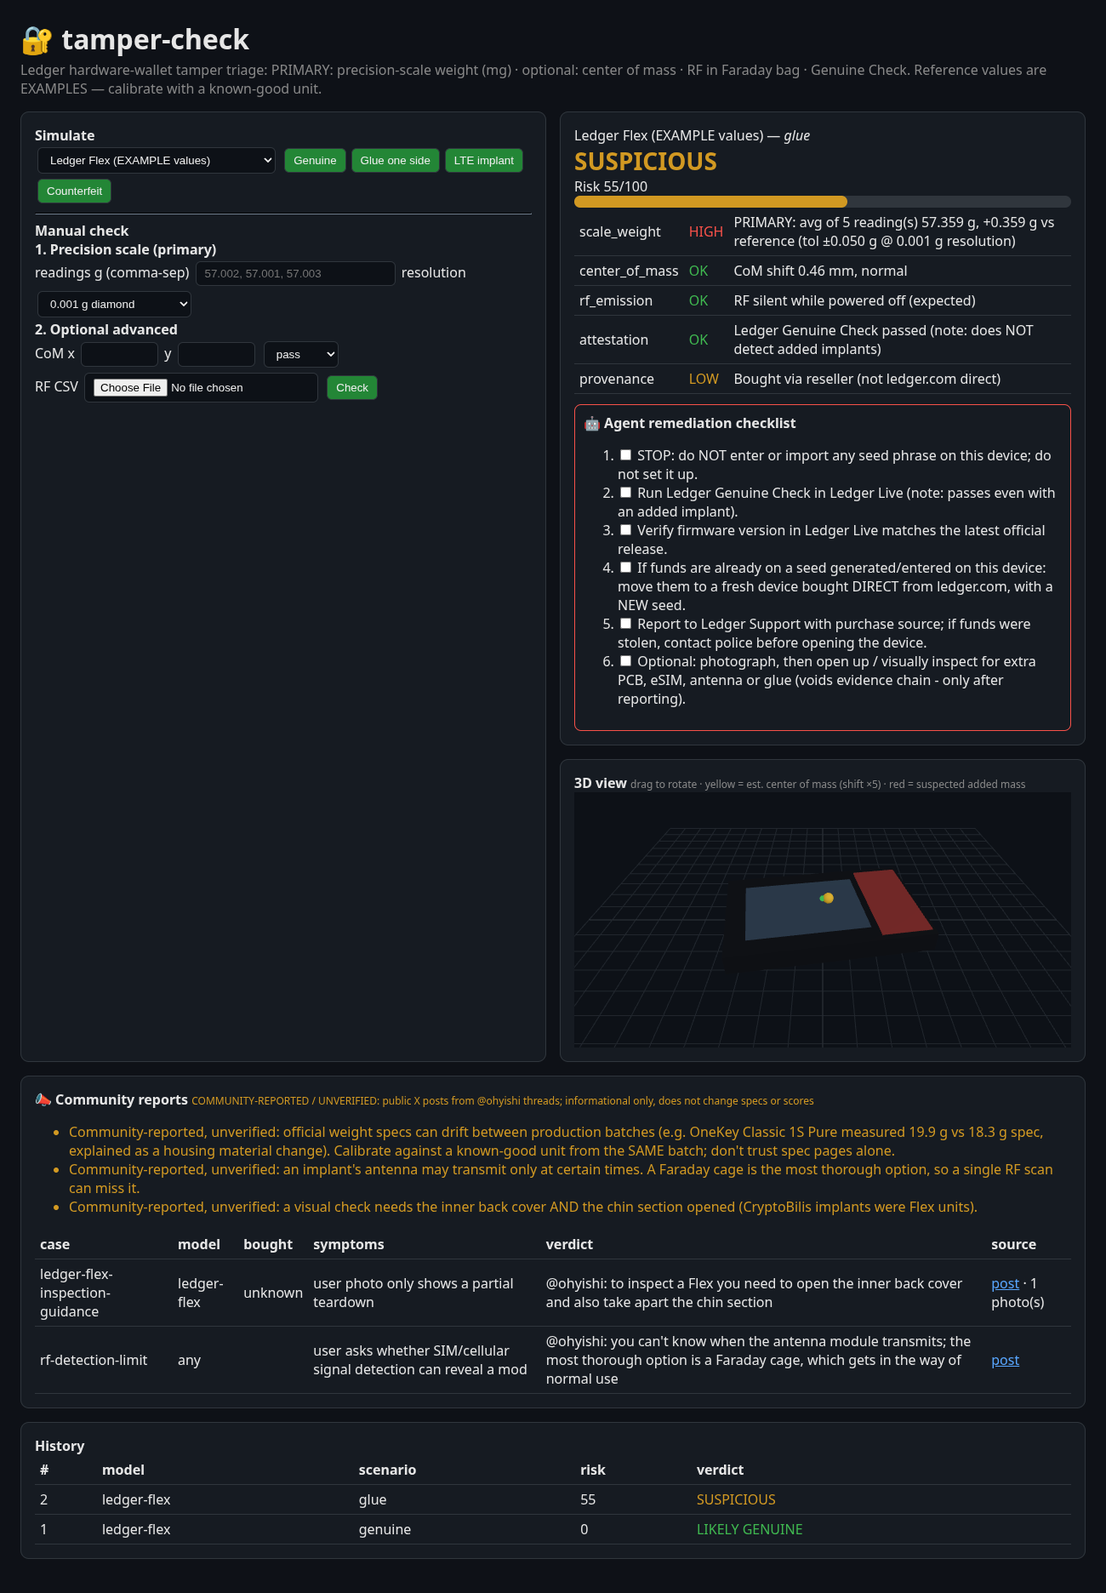
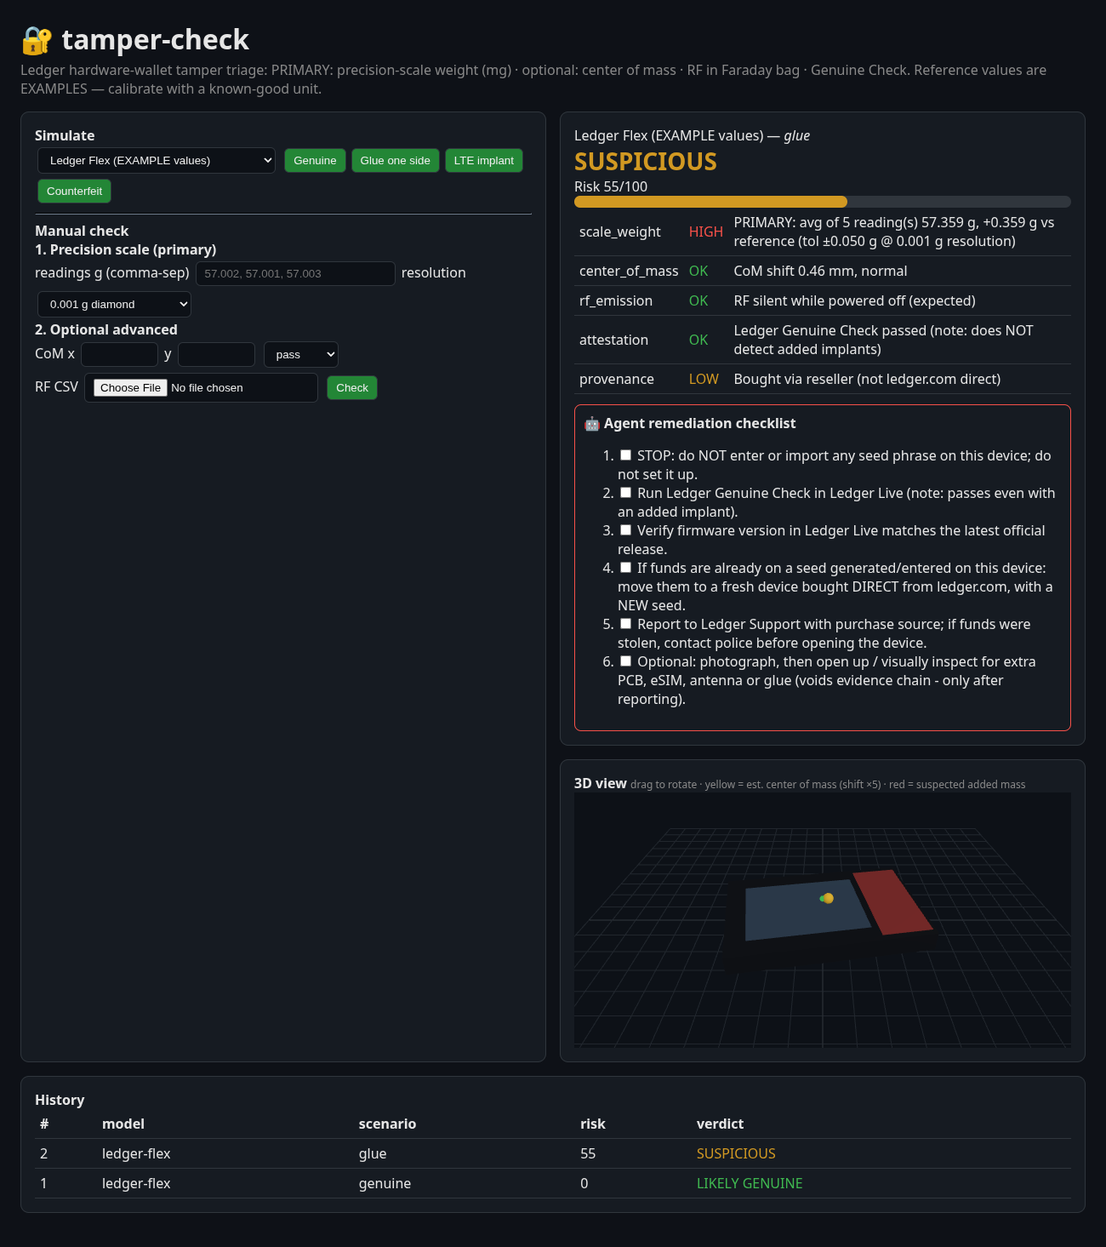
Clean up: focused README, remove community data/panel/API

diff --git a/static/index.html b/static/index.html
@@ -10,16 +10,12 @@ select,input,button{background:#0d1117;color:#eee;border:1px solid #30363d;borde
 <button onclick="sim('genuine')">Genuine</button><button onclick="sim('glue')">Glue one side</button><button onclick="sim('implant')">LTE implant</button><button onclick="sim('counterfeit')">Counterfeit</button>
 <hr style="border-color:#30363d"><b>Manual check</b><br><b>1. Precision scale (primary)</b><br>readings g (comma-sep) <input id=w size=22 placeholder="57.002, 57.001, 57.003"> resolution <select id=resol><option value=0.001>0.001 g diamond</option><option value=0.01>0.01 g</option><option value=1>1 g kitchen (demo only)</option></select><br><b>2. Optional advanced</b><br>CoM x <input id=cx size=4> y <input id=cy size=4>
 <select id=att><option>pass</option><option>fail</option><option>not_run</option></select><br>RF CSV <input type=file id=rf> <button onclick=manual()>Check</button></div>
-<div><div class=card id=res><i>Run a check…</i></div><div class=card><b>3D view</b> <span style="color:#888;font-size:12px">drag to rotate · yellow = est. center of mass (shift ×5) · red = suspected added mass</span><div id=v3d style="height:300px"></div></div></div></div><div class=card id=comm><b>📣 Community reports</b> <span style="color:#d29922;font-size:12px">COMMUNITY-REPORTED / UNVERIFIED: public X posts from @ohyishi threads; informational only, does not change specs or scores</span><div id=commnotes></div><table id=commtbl></table></div>
-<div class=card><b>History</b><table id=hist></table></div>
+<div><div class=card id=res><i>Run a check…</i></div><div class=card><b>3D view</b> <span style="color:#888;font-size:12px">drag to rotate · yellow = est. center of mass (shift ×5) · red = suspected added mass</span><div id=v3d style="height:300px"></div></div></div></div><div class=card><b>History</b><table id=hist></table></div>
 <script>
-let seed=0;fetch('/api/models').then(r=>r.json()).then(m=>{for(const k in m)model.innerHTML+=`<option value=${k}>${m[k].name}</option>`;model.value='ledger-flex';comm();model.onchange=comm});
+let seed=0;fetch('/api/models').then(r=>r.json()).then(m=>{for(const k in m)model.innerHTML+=`<option value=${k}>${m[k].name}</option>`;model.value='ledger-flex'});
 function show(r){window.draw3d&&window.draw3d(r);const c=r.risk>=60?'critical':r.risk>=25?'medium':'ok';
 res.innerHTML=`<div>${r.model_name} — <i>${r.label}</i></div><div class="v ${c}">${r.verdict}</div><div>Risk ${r.risk}/100</div><div class=bar><div class="fill" style="width:${r.risk}%;background:${c=='ok'?'#3fb950':c=='medium'?'#d29922':'#f85149'}"></div></div>
 <table>${r.warnings.map(w=>`<tr><td>${w.check}</td><td class=${w.severity}>${w.severity.toUpperCase()}</td><td>${w.message}</td></tr>`).join('')}</table>${r.remediation.length?`<div style="margin-top:12px;padding:10px;border:1px solid #f85149;border-radius:8px"><b>🤖 Agent remediation checklist</b><ol>${r.remediation.map(x=>`<li><label><input type=checkbox> ${x}</label></li>`).join('')}</ol></div>`:''}`;hist_()}
-function esc(t){return String(t??'').replace(/[&<>"]/g,c=>({'&':'&amp;','<':'&lt;','>':'&gt;','"':'&quot;'}[c]))}
-function comm(){fetch('/api/community?model='+model.value).then(r=>r.json()).then(d=>{commnotes.innerHTML='<ul>'+d.notes.notes.map(n=>`<li style="color:#d29922">${esc(n)}</li>`).join('')+'</ul>';
-commtbl.innerHTML='<tr><th>case</th><th>model</th><th>bought</th><th>symptoms</th><th>verdict</th><th>source</th></tr>'+d.cases.map(c=>`<tr class=crow><td>${esc(c.id)}</td><td>${esc(c.device_model)}</td><td>${esc(c.bought_from)}</td><td>${esc((c.symptoms||[]).join('; '))}${c.weight_observed_g?` <b>(${c.weight_observed_g} g vs spec ${c.weight_spec_g} g)</b>`:''}</td><td>${esc(c.expert_verdict)}</td><td><a style="color:#58a6ff" href="${esc(c.source_post)}" target=_blank>post</a>${c.media&&c.media.length?` · ${c.media.length} photo(s)`:''}</td></tr>`).join('')})}
 function sim(k){fetch(`/api/simulate/${model.value}/${k}?seed=${seed++}`,{method:'POST'}).then(r=>r.json()).then(show)}
 async function manual(){const b={model:model.value,attestation:att.value};if(w.value)b.scale_readings_g=w.value.split(',').map(Number);b.scale_resolution_g=+resol.value;if(cx.value||cy.value)b.com_mm=[+cx.value||0,+cy.value||0];if(rf.files[0])b.rf_csv=await rf.files[0].text();
 fetch('/api/check',{method:'POST',headers:{'content-type':'application/json'},body:JSON.stringify(b)}).then(r=>r.json()).then(show)}

diff --git a/tamper_check/app.py b/tamper_check/app.py
@@ -6,18 +6,14 @@ from typing import Optional
 from .reference import REFERENCE
 from .engine import score
 from .simulator import scenario
-from .community import load_cases, notes_for
-from fastapi.staticfiles import StaticFiles
 app=FastAPI(title="tamper-check"); HISTORY=[]
-_m=Path(__file__).parent.parent/'data'/'x_ohyishi'/'media'
-if _m.exists(): app.mount('/media',StaticFiles(directory=_m),name='media')
 class Measurement(BaseModel):
     model:str; weight_g:Optional[float]=None; scale_readings_g:Optional[list[float]]=None; scale_resolution_g:Optional[float]=None; com_mm:Optional[list[float]]=None
     imu_samples:Optional[dict]=None; rf_csv:Optional[str]=None; attestation:Optional[str]=None
     source:Optional[str]=None; seal_broken:bool=False; label:Optional[str]=None
 def run(m):
     if m["model"] not in REFERENCE: raise HTTPException(404,"unknown model")
-    r=score(m); r["community"]=notes_for(m["model"]); r["label"]=m.get("label") or "manual"; r["id"]=len(HISTORY)+1; HISTORY.append(r); return r
+    r=score(m); r["label"]=m.get("label") or "manual"; r["id"]=len(HISTORY)+1; HISTORY.append(r); return r
 @app.get("/api/models")
 def models(): return REFERENCE
 @app.post("/api/check")
@@ -31,10 +27,3 @@ def sim(model:str,kind:str,seed:int=0):
 def hist(): return HISTORY[::-1]
 @app.get("/")
 def index(): return FileResponse(Path(__file__).parent.parent/"static"/"index.html")
-@app.get("/api/community")
-def community(model:Optional[str]=None, category:Optional[str]=None):
-    cs=load_cases()
-    if model: cs=[c for c in cs if model in str(c.get("device_model")) or c.get("device_model")=="any"]
-    if category: cs=[c for c in cs if c.get("category")==category]
-    return {"label":"COMMUNITY-REPORTED / UNVERIFIED (public X posts, @ohyishi threads, collected 2026-10-14)","count":len(cs),"cases":cs,
-            "notes":notes_for(model) if model else None}

diff --git a/tests/test_all.py b/tests/test_all.py
@@ -47,19 +47,3 @@ def test_api():
     assert c.post("/api/simulate/ledger-flex/xx").status_code==400
     assert len(c.get("/api/history").json())>=2 and c.get("/").status_code==200
 
-from tamper_check.community import load_cases, notes_for
-def test_cases_dataset_valid():
-    cs=load_cases(); assert len(cs)>=5
-    for c in cs:
-        assert c["verified"] is False and "UNVERIFIED" in c["source"] and c["source_post"].startswith("https://x.com/")
-        for m in c.get("media",[]): assert (__import__("pathlib").Path(m)).exists(), m
-def test_community_notes_do_not_change_specs_or_score():
-    before=dict(REFERENCE["ledger-nano-s-plus"]); n=notes_for("ledger-nano-s-plus")
-    assert REFERENCE["ledger-nano-s-plus"]==before and "UNVERIFIED" in n["label"] and any("ST33K1M5" in x for x in n["notes"])
-    assert any(w["observed_g"]==19.9 for w in n["observed_weights"])
-    s=scenario("ledger-nano-s-plus","genuine",0); assert score(s)["risk"]==0
-def test_api_community():
-    c=TestClient(app); d=c.get("/api/community").json(); assert d["count"]>=5 and "UNVERIFIED" in d["label"]
-    f=c.get("/api/community?model=ledger-flex").json(); assert all("ledger-flex" in x["device_model"] or x["device_model"]=="any" for x in f["cases"]) and f["notes"]["notes"]
-    assert c.get("/api/community?category=spec_drift").json()["count"]==2
-    r=c.post("/api/simulate/ledger-flex/genuine").json(); assert "UNVERIFIED" in r["community"]["label"]

diff --git a/tests/test_e2e.py b/tests/test_e2e.py
@@ -36,6 +36,6 @@ def test_dashboard_e2e(url):
         nonbg=pg.evaluate("""()=>{const c=document.querySelector('#v3d canvas');const t=document.createElement('canvas');t.width=c.width;t.height=c.height;const x=t.getContext('2d');x.drawImage(c,0,0);const d=x.getImageData(0,0,t.width,t.height).data;let n=0;for(let i=0;i<d.length;i+=4)if(Math.abs(d[i]-13)+Math.abs(d[i+1]-17)+Math.abs(d[i+2]-23)>30)n++;return n}""")
         assert nonbg>500, nonbg
         assert pg.locator("#hist tr").count()==6
-        assert pg.locator("#commtbl tr.crow").count()>=1 and "UNVERIFIED" in pg.inner_text("#comm")
+        assert pg.locator("#comm").count()==0
         b.close()
     assert not errors, errors

diff --git a/scripts_screenshot.py b/scripts_screenshot.py
@@ -8,5 +8,4 @@ with sync_playwright() as p:
     pg.screenshot(path="screenshots/kitchen_scale_demo_only.png",full_page=True)
     pg.fill("#w","57.312, 57.310, 57.313"); pg.select_option("#resol","0.001"); pg.click('button:has-text("Check")'); pg.wait_for_timeout(700)
     pg.screenshot(path="screenshots/manual_diamond_scale_flagged.png",full_page=True)
-    pg.locator("#comm").screenshot(path="screenshots/community_reports.png")
     b.close()

diff --git a/README.md b/README.md
@@ -1,80 +1,69 @@
 # tamper-check
 
-Software-first triage for **tampered Ledger hardware wallets** (Nano S Plus, Nano X, Stax, Flex). Built at Paradigm Frontiers 2026 hackathon (Aileen Choo + Aaron Li).
+Software-first tamper triage for Ledger hardware wallets (Nano S Plus, Nano X, Stax, Flex).
 
-**Primary check: precision-scale weight.** Following Ryan Lackey (@octal)'s suggestion: a ~$100 diamond scale with ~2 mg repeatability (e.g. US Solid DBS46-1, 0.001 g) can catch added implants/glue. Enter ≥3 readings (re-zero between); they are averaged, and tolerance = max(model tol, 2×resolution, 2×spread). A 1 g kitchen scale is flagged **DEMO-ONLY** — it cannot catch mg-level implants. When flagged, the dashboard shows an **agent remediation checklist** (don't enter seed → Genuine Check → verify firmware → move funds to a fresh device bought direct from Ledger with a new seed → report → optional open-up inspection).
+## Problem
 
-Optional advanced checks: **center-of-mass shift** (phone IMU tilt over a pivot) · **RF/cellular emission** while OFF inside a Faraday bag (Flipper/SDR CSV) · **Ledger Genuine Check** result · provenance. Explainable rule-based risk score 0–100 → LIKELY GENUINE / SUSPICIOUS / TAMPERED.
+In October 2026, Ledger confirmed that devices sold through the Southeast Asian reseller CryptoBilis contained an unauthorized hardware implant. According to press reports, the implant reads the 24-word recovery phrase during setup and sends it out over a cellular (eSIM) link. Funds were drained from hundreds of wallets. On Oct 13 Ledger asked resellers in Indonesia, Singapore, Thailand, the Philippines, Vietnam, Malaysia and Hong Kong to pull devices from shelves while it investigates. The secure element is not broken, so **Ledger Genuine Check still passes** on a tampered unit.
 
-> ⚠ Reference weights/dims in `tamper_check/reference.py` are **EXAMPLE placeholders, not official Ledger specs**. Calibrate by measuring a unit bought directly from ledger.com.
+- CoinDesk, Oct 12 2026: https://www.coindesk.com/tech/2026/10/12/ledger-says-unauthorized-implant-found-in-at-least-one-device-sold-by-cryptobilis
+- Cointelegraph, Oct 13 2026: https://cointelegraph.com/news/ledger-asks-resellers-to-halt-sales-in-southeast-asia-and-hong-kong
+- Ledger Genuine Check: https://www.ledger.com/blog/genuine-check
 
-## Run
+## Solution
+
+tamper-check catches what attestation misses: **physical changes to the device**. Checks are scored with transparent rules into a 0–100 risk score and a verdict of **LIKELY GENUINE**, **SUSPICIOUS** or **TAMPERED – DO NOT USE**.
+
+1. **Precision scale weight (primary).** Enter ≥3 readings from a 0.001 g scale (re-zero between readings). Readings are averaged, and the tolerance is the largest of the model tolerance, 2× scale resolution and 2× reading spread. A 1 g kitchen scale is flagged as demo-only because it cannot detect implants weighing a few hundred mg.
+2. **Center-of-mass shift (optional).** Rest the device across a pivot at several offsets and record the tilt with a phone IMU. A least-squares fit estimates the CoM shift caused by mass added on one side.
+3. **RF emission (optional).** Put the device, powered off, in a Faraday bag with an SDR or RF detector and upload the scan as CSV (`timestamp_s,freq_mhz,rssi_dbm`). Bursts in cellular bands are critical, because a Ledger has no cellular radio. Periodic bursts are reported.
+4. **Genuine Check result and provenance.** Both are recorded. A failed Genuine Check is critical, and a non-direct purchase is low risk.
+5. **Remediation checklist.** Shown when a device is flagged: do not enter a seed → run Genuine Check → verify firmware → move funds to a new device bought from ledger.com with a new seed → report to Ledger → optionally open the device and inspect it.
+6. **3D view (three.js).** A model of the device that shows the expected and estimated center of mass, the region with suspected added mass, and RF activity.
+
+A simulator generates genuine, glue-on-one-side, LTE-implant and counterfeit scenarios for every model.
+
+> Reference weights and dimensions in `tamper_check/reference.py` are **example values, not official Ledger specs**. Calibrate them with a known-good unit bought directly from Ledger.
+
+## Setup & run
+
 ```bash
 python3 -m venv .venv && .venv/bin/pip install -r requirements.txt
-.venv/bin/pytest -q                                   # 8 tests
-.venv/bin/uvicorn tamper_check.app:app --port 8765    # open http://127.0.0.1:8765
-.venv/bin/python scripts_screenshot.py                # regenerate screenshots (server running)
+.venv/bin/playwright install chromium            # for e2e test, screenshots, video
+.venv/bin/uvicorn tamper_check.app:app --port 8765   # http://127.0.0.1:8765
 ```
-API: `GET /api/models`, `POST /api/check` (JSON: model, weight_g, com_mm | imu_samples, rf_csv, attestation, source), `POST /api/simulate/{model}/{genuine|glue|implant|counterfeit}`, `GET /api/history`. Sample RF logs in `samples/`.
 
-RF CSV format: `timestamp_s,freq_mhz,rssi_dbm`. Bursts >15 dB above floor in 700–960 / 1710–2200 / 2300–2700 MHz → critical (a Ledger has no cellular modem); periodicity is reported.
+## Test
 
-CoM method: lay device across a pivot at offsets s; tilt ≈ k·(com − s); least-squares fit gives com = −intercept/slope per axis.
+```bash
+.venv/bin/pytest -v
+```
+Unit and API tests cover the scoring rules, scale resolution, averaging, remediation, CoM, RF, the simulator and the endpoints. A Playwright end-to-end test loads the dashboard, runs each scenario, checks verdicts and the checklist, confirms the 3D canvas renders, and requires zero console errors. CI runs on every push (`.github/workflows/ci.yml`). The dashboard loads three.js from a CDN.
 
-## Live pitch demo (≈2 min) — video: `demo/demo.mp4` (81 s)
-1. "Ledger confirmed implants in devices sold via CryptoBilis; the implant reads the seed off the screen and exfiltrates over LTE — and Genuine Check still passes."
-2. Put an untouched Ledger on the diamond scale, 3 readings → enter → LIKELY GENUINE.
-3. Add a blob of glue on one side → reweigh → SUSPICIOUS, red region on the 3D view, remediation checklist appears; tick through it.
-4. Show the same readings with "1 g kitchen" resolution → DEMO-ONLY warning: why the $100 scale matters.
-5. Click **LTE implant** (or upload `samples/rf_implant.csv`) → TAMPERED: weight + periodic cellular bursts, RF rings in 3D.
-6. History table: genuine → glue → implant.
+## API
 
-## Tests
-`pytest -v` — 15 unit/API tests (incl. community dataset & API) + 1 Playwright end-to-end test (loads dashboard, runs each scenario, checks verdicts & checklist, kitchen-scale warning, 3D canvas actually renders, zero console errors). CI: `.github/workflows/ci.yml`. Needs internet for three.js CDN.
+| Method | Path | Description |
+|---|---|---|
+| GET | `/api/models` | Reference models |
+| POST | `/api/check` | JSON: `model`, `scale_readings_g`, `scale_resolution_g`, optional `com_mm` or `imu_samples`, `rf_csv`, `attestation` (`pass`/`fail`/`not_run`), `source` |
+| POST | `/api/simulate/{model}/{genuine\|glue\|implant\|counterfeit}` | Run a simulated scenario |
+| GET | `/api/history` | Past checks |
 
-## Screenshots
-`screenshots/genuine.png`, `glue.png`, `implant.png`, `kitchen_scale_demo_only.png`, `manual_diamond_scale_flagged.png`, `community_reports.png`
+Sample RF logs: `samples/rf_genuine.csv`, `samples/rf_implant.csv`.
+
+## Demo
+
+- Video: `demo/demo.mp4` (genuine → glue → implant → scale entry → remediation checklist)
+- Screenshots: `screenshots/genuine.png`, `glue.png`, `implant.png`, `kitchen_scale_demo_only.png`, `manual_diamond_scale_flagged.png`
+- Regenerate with the server running: `python scripts_screenshot.py`, `python scripts_video.py`
 
 ## Limitations
-- Example reference values; real tolerances need many genuine units per model/batch.
-- Phone-IMU CoM is crude (mm-level, needs a stable pivot); a well-designed implant that replaces mass can evade weight checks.
-- Flipper Zero's CC1101 covers sub-GHz only (≈300–928 MHz), NOT LTE bands >1 GHz; use an RTL-SDR/HackRF or cheap RF detector. Implants may transmit only after setup/seed entry, so a powered-off scan can miss them.
-- Genuine Check verifies the secure element, not added PCBs — it cannot detect this attack class.
-- NFC check (Stax/Flex) is a stub: only the attestation result is ingested.
 
-## Community reports (X: @ohyishi) — UNVERIFIED
-[@ohyishi](https://x.com/ohyishi) is Yishi, founder of OneKey (bio: "janitor @OneKeyHQ"). After the CryptoBilis incident he invited people to post teardown photos ([post](https://x.com/ohyishi/status/2110209576276828517)) and replied to each one with a verdict ("clean" or suspicious).
-- Raw public data: `data/x_ohyishi/posts.json` (his posts), `replies.json` (others' replies), `media/` (device photos from key cases). Handles only, UTC timestamps, collected 2026-10-14.
-- Curated: `data/x_ohyishi/cases.jsonl` (10 cases, all `verified:false`), served at `GET /api/community?model=&category=` and in the dashboard **Community reports** panel.
-- Per-model **community notes** are shown next to results but **never change reference specs or scores**. Examples: genuine Nano S Plus chips are ST (STM32F042 + ST33K1M5), so ground-off markings are a red flag; official weight specs drift by batch (OneKey 1S Pure measured 19.9 g vs 18.3 g spec, per the vendor because of a housing material change), so calibrate against a same-batch unit; RF timing is unpredictable, so use a Faraday cage.
+- Example reference values. Real tolerances need measurements of many genuine units per model and batch.
+- An implant that removes as much mass as it adds can pass the weight check.
+- An implant may transmit only after setup, so a powered-off RF scan can miss it.
+- Flipper Zero's sub-GHz radio does not cover LTE bands above 1 GHz. Use an SDR such as HackRF or RTL-SDR.
 
-## Tampering cases & would tamper-check catch it?
-| Case | Source | Caught? |
-|---|---|---|
-| **CryptoBilis implant, Oct 2026**: extra module with eSIM inside genuine Ledgers sold by a SEA reseller; reads seed from screen, sends over LTE | [CoinDesk](https://www.coindesk.com/tech/2026/10/12/ledger-says-unauthorized-implant-found-in-at-least-one-device-sold-by-cryptobilis), [Cointelegraph](https://cointelegraph.com/news/ledger-asks-resellers-to-halt-sales-in-southeast-asia-and-hong-kong) | **Yes, likely**: module+eSIM+antenna adds mass → diamond-scale weight; LTE bursts if it transmits during an RF scan. Genuine Check alone: **no**. |
-| **Fake Ledgers mailed to 2020-leak victims, 2021**: repackaged Nano X with a USB flash drive soldered on, plus a letter asking for the seed | widely reported (BleepingComputer, Jun 2021; page blocks our fetch, link not verified) | **Yes**: added PCB changes weight; the "enter your seed" letter triggers checklist step 1. |
-| **Saleem Rashid, 2018**: MCU firmware attack on Nano S, could be done in the supply chain with no hardware change | [saleemrashid.com](https://saleemrashid.com/2018/03/20/breaking-ledger-security-model/) | **No** by weight/RF (software-only); Genuine Check + firmware update (since patched) is the defense, which our checklist includes. |
-| **Ledger Connect Kit, Dec 2023**: malicious npm library release drained dApp users | [Ledger](https://www.ledger.com/blog/a-letter-from-ledger-chairman-ceo-pascal-gauthier-regarding-ledger-connect-kit-exploit) | **No**: not a device attack; out of scope. |
-| **2020 customer data leak → phishing**: emails/SMS/fake Ledger Live, "replace your device" | [Ledger](https://www.ledger.com/blog/security-incident-report) | **Partly**: device checks don't apply, but the checklist rule "never enter your seed anywhere" covers the attack. |
+## License
 
-## Briefing: the scene (sources fetched 2026-10-14)
-- **Oct 9 2026**: drained funds traced to Ledgers bought from SEA reseller **CryptoBilis** (MY/ID/PH). Oct 10 Ledger: "one of the impacted users' devices contained an unauthorized hardware implant"; Oct 11: all confirmed cases via CryptoBilis; direct channel not compromised. Est. $86–93M from 300+ wallets (on-chain researchers). — https://www.coindesk.com/tech/2026/10/12/ledger-says-unauthorized-implant-found-in-at-least-one-device-sold-by-cryptobilis
-- **Oct 13 2026**: Ledger asks resellers in Indonesia, Singapore, Thailand, Philippines, Vietnam, Malaysia, **Hong Kong** to pull stock; "only confirmed incidents remain contained to Southeast Asia". Users in **Europe** report *suspected* tampering (unconfirmed). — https://cointelegraph.com/news/ledger-asks-resellers-to-halt-sales-in-southeast-asia-and-hong-kong ; Donjon analyzing recalled units — https://www.tokenpost.com/news/technology/31561
-- Implant reportedly has its own eSIM, reads the 24-word phrase off the screen during setup, sends over cellular; Bitquery estimate up to $102M / 324 wallets (secondary source, **unconfirmed** figure) — https://coinlab.info/en/articles/ledger-cryptobilis-implant-explained/
-- Teardowns of Ledger Flex from Challenger (VivoCity) and Changi airport retailer by Mark Karpelès / Ben Yorke (secondary report, **unverified**) — https://blocktimes.co.uk/ledger-extends-regional-retail-freeze-across-sea-and-hong-kong-as-teardowns-find-spy-implants-beyond-cryptobilis/
-- **Genuine Check / attestation**: secure element proves authenticity cryptographically to Ledger's HSM — https://www.ledger.com/blog/genuine-check , https://support.ledger.com/article/360002204997-zd
-- **2020 customer data leak** (Shopify/marketing DB; later phishing and "replacement device" scams incl. fake Ledgers mailed with implanted USB hardware — widely reported 2021, page link not verified here) — https://www.ledger.com/blog/security-incident-report
-- **Connect Kit supply-chain attack, Dec 2023** (malicious npm release drained dApp users) — https://www.ledger.com/blog/a-letter-from-ledger-chairman-ceo-pascal-gauthier-regarding-ledger-connect-kit-exploit
-- **Prior hardware research**: Saleem Rashid, 2018, supply-chain/MCU attack on Nano S — https://saleemrashid.com/2018/03/20/breaking-ledger-security-model/
-
-## Useful repos (all verified HTTP 200)
-- https://github.com/LedgerHQ/ledgerctl — talk to a Ledger over USB/APDU; base for scripting attestation checks.
-- https://github.com/LedgerHQ/ledger-live — official app implementing Genuine Check / manager flow.
-- https://github.com/trezor/trezor-firmware — open firmware; compare vendor anti-tamper/attestation design.
-- https://github.com/flipperdevices/flipperzero-firmware — sub-GHz scanning & NFC reading for field checks.
-- https://github.com/DarkFlippers/unleashed-firmware — Flipper firmware with extended sub-GHz tools/frequency analyzer.
-- https://github.com/EFForg/rayhunter — EFF cellular anomaly (IMSI-catcher) detector; model for an LTE-activity dashboard.
-- https://github.com/CellularPrivacy/Android-IMSI-Catcher-Detector — Android cellular anomaly detection ideas.
-- https://github.com/greatscottgadgets/hackrf — SDR covering 1 MHz–6 GHz for real LTE-band emission scans.
-- https://github.com/phyphox/phyphox-android — export phone accelerometer/gyro data for the tilt/CoM measurement.
-- https://github.com/paradigmxyz/iron-proxy — Paradigm's secret-isolating proxy; related "agent never sees keys" angle.
+MIT
